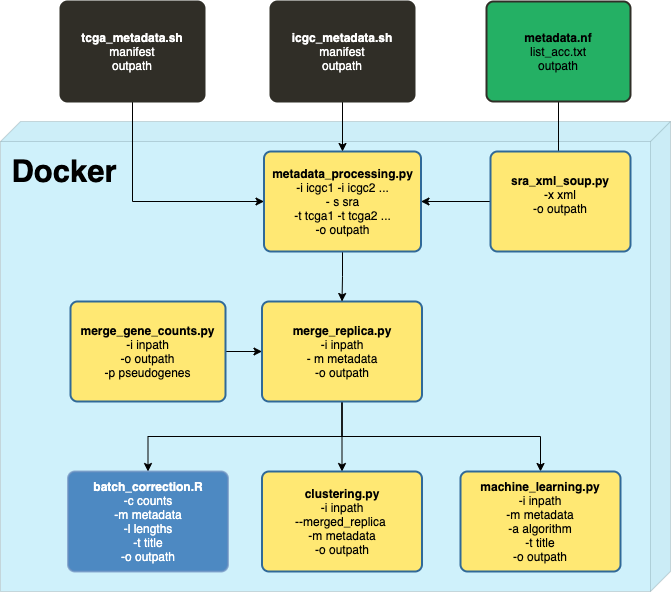
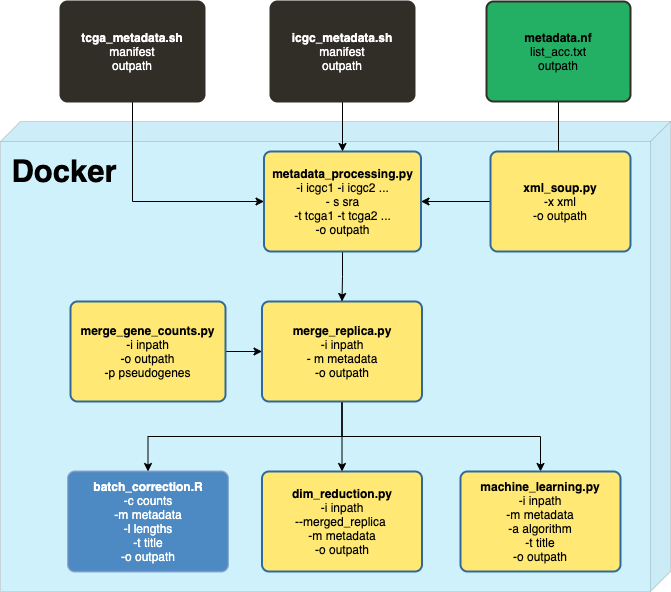
refactoring and adaption of workflow image

Changed region(s): [[0.7452, 0.3041, 0.924, 0.3953], [0.4173, 0.8209, 0.5961, 0.8514]]

diff --git a/python_scripts/dim_reduction.py b/python_scripts/dim_reduction.py
@@ -110,7 +110,8 @@ def main(inpath, merged_replica, metadata, outpath, pca, tsne, umap, comparison,
         visualization_plots(scaled_data, annotations, outpath, 'umap', title)
 
     if comparison:
-        comparison_dim_reduction(scaled_data, pcolor_list, outpath)
+        comparison_dim_reduction(scaled_data, pcolor_list, outpath + "project_")
+        comparison_dim_reduction(scaled_data, ccolor_list, outpath + "condition_")
 
     if silhouette:
         silhouette_plot(scaled_data, target)
@@ -159,7 +160,7 @@ def read_metadata(metadata, sample_ids):
     tmp = {0 + i: [k, sorted_meta.get(k)] for i, k in enumerate(sorted_meta)}
 
     annos = pd.DataFrame.from_dict(tmp, orient='index')
-    print("annos\n", annos)
+    # print("annos\n", annos)
     # expand list with metadata into own series
     tags = annos.iloc[:, 1].apply(pd.Series)
     tags.rename({0: 'CaseID', 1: 'Condition', 2: 'Project'}, axis=1, inplace=True)
@@ -183,15 +184,15 @@ def read_metadata(metadata, sample_ids):
     c = ['b', 'g', 'r', 'p']
     color_tups = list(zip(project_set, c))
     # color_dict = {e[0]: e[1] for e in color_tups}
-    # pdict = {'GTEx-PRJNA75899': '#EF553B', 'TCGA-PAAD': '#AB63FA', 'PACA-AU': '#00CC96', 'PACA-CA': '#636EFA'}
+    pdict = {'GTEx-PRJNA75899': '#EF553B', 'TCGA-PAAD': '#AB63FA', 'PACA-AU': '#00CC96', 'PACA-CA': '#636EFA'}
     # pdict = {'PRJNA75899': '#00CC96', 'TCGA-LIHC': '#EF553B', 'LIRI-JP': '#636EFA', 'TCGA-CHOL': '#AB63FA'}
-    pdict = {'SRP030040': '#85660D', 'SRP058626': '#782AB6', 'SRP187978': '#565656', 'SRP050003': '#1C8356',
-             'SRP029880': '#16FF32', 'SRP137150': '#F7E1A0', 'SRP102722': '#E2E2E2', 'SRP026600': '#1CBE4F',
-             'SRP064138': '#C4451C', 'SRP068551': '#DEA0FD', 'SRP062885': '#FE00FA', 'SRP069212': '#325A9B',
-             'SRP048907': '#FEAF16', 'SRP050551': '#F8A19F', 'SRP076032': '#90AD1C', 'SRP068976': '#F6222E',
-             'SRP070723': '#1CFFCE', 'SRP108560': '#2ED9FF', 'SRP056696': '#B10DA1', 'SRP040998': '#C075A6',
-             'SRP118972': '#FC1CBF', 'SRP039694': '#B00068', 'SRP174502': '#FBE426', 'SRP049592': '#FA0087',
-             'PRJNA75899': '#00CC96', 'TCGA-LIHC': '#EF553B', 'LIRI-JP': '#636EFA', 'TCGA-CHOL': '#AB63FA'}
+    # pdict = {'SRP030040': '#85660D', 'SRP058626': '#782AB6', 'SRP187978': '#565656', 'SRP050003': '#1C8356',
+    #         'SRP029880': '#16FF32', 'SRP137150': '#F7E1A0', 'SRP102722': '#E2E2E2', 'SRP026600': '#1CBE4F',
+    #         'SRP064138': '#C4451C', 'SRP068551': '#DEA0FD', 'SRP062885': '#FE00FA', 'SRP069212': '#325A9B',
+    #         'SRP048907': '#FEAF16', 'SRP050551': '#F8A19F', 'SRP076032': '#90AD1C', 'SRP068976': '#F6222E',
+    #         'SRP070723': '#1CFFCE', 'SRP108560': '#2ED9FF', 'SRP056696': '#B10DA1', 'SRP040998': '#C075A6',
+    #         'SRP118972': '#FC1CBF', 'SRP039694': '#B00068', 'SRP174502': '#FBE426', 'SRP049592': '#FA0087',
+    #         'PRJNA75899': '#00CC96', 'TCGA-LIHC': '#EF553B', 'LIRI-JP': '#636EFA', 'TCGA-CHOL': '#AB63FA'}
 
     # print('Color-dict\n', pdict) #color_dict
     # color_list = [pdict[k] for k in project_list] #color_dict
@@ -236,7 +237,7 @@ def visualization_plots(data, target, outpath, method=str, title_dataset=str):
               '#DEA0FD', '#FE00FA', '#325A9B', '#FEAF16', '#F8A19F', '#90AD1C', '#F6222E', '#1CFFCE', '#2ED9FF',
               '#B10DA1', '#C075A6', '#FC1CBF', '#B00068', '#FBE426', '#FA0087', '#EF553B', '#636EFA', '#00CC96',
               '#AB63FA']
-    colors2 = ['#EF553B', '#636EFA', '#00CC96', '#AB63FA']
+    colors2 = ['#EF553B', '#636EFA', '#00CC96', '#AB63FA']  # red, blue, green purple
 
     if method == 'pca':
         print("Performing pca for plotting...")
@@ -251,7 +252,7 @@ def visualization_plots(data, target, outpath, method=str, title_dataset=str):
         print("Performing tsne for plotting...")
         # Dimension reduction
         # consider setting init='pca', perplexity (neighbors), learning_rate
-        tsne = TSNE(n_components=2, random_state=0)
+        tsne = TSNE(n_components=2, random_state=0) # perplexity=20
         X_embedded = tsne.fit_transform(data)
         d1 = X_embedded[:, 0]
         d2 = X_embedded[:, 1]
@@ -260,7 +261,7 @@ def visualization_plots(data, target, outpath, method=str, title_dataset=str):
         print("Performing umap for plotting...")
         # Dimension reduction
         # ensure reproducibility of embedding by setting random state, n_neighbors, metric='mahalanobis'
-        reducer = umap.UMAP(random_state=42)
+        reducer = umap.UMAP(random_state=42) # n_neighbors=30, min_dist=0
         embedding = reducer.fit_transform(data)
         d1 = embedding[:, 0]
         d2 = embedding[:, 1]
@@ -272,7 +273,7 @@ def visualization_plots(data, target, outpath, method=str, title_dataset=str):
 
     figP = px.scatter(x=d1, y=d2, color=target.Project, hover_name=target.ID,
                       hover_data={'condition': target.Condition, 'case_id': target.CaseID},
-                      template="simple_white")
+                      template="simple_white", color_discrete_sequence=colors2)
 
     if method == 'pca':
         figC.update_layout(title=str(method).upper() + ' - ' + title_dataset + ' dataset',
@@ -283,7 +284,7 @@ def visualization_plots(data, target, outpath, method=str, title_dataset=str):
         figP.update_layout(title=str(method).upper() + ' - ' + title_dataset + ' dataset',
                            xaxis_title="PC1 - explained variance: " + str(round(evr1 * 100, 2)),
                            yaxis_title="PC2 - explained variance: " + str(round(evr2 * 100, 2)),
-                           legend_title="Project", colorway=colors)
+                           legend_title="Project", colorway=colors2)
     else:
         figC.update_layout(title=str(method).upper() + ' - ' + title_dataset + ' dataset',
                            xaxis_title="Dim1", yaxis_title="Dim2",
@@ -291,8 +292,12 @@ def visualization_plots(data, target, outpath, method=str, title_dataset=str):
 
         figP.update_layout(title=str(method).upper() + ' - ' + title_dataset + ' dataset',
                            xaxis_title="Dim1", yaxis_title="Dim2", legend_title="Project",
-                           colorway=colors)
+                           colorway=colors2)
 
+    # control location of legend with  yanchor="top", y=0.99, xanchor="left", x=0.01,
+    # orientation="h", yanchor="bottom", y=1.02, xanchor="right", x=1,
+    figC.update_layout(legend=dict(orientation="h", yanchor="bottom", y=1.02, xanchor="right", x=1, font=dict(size=20)))
+    figP.update_layout(legend=dict(orientation="h", yanchor="bottom", y=1.02, xanchor="right", x=1, font=dict(size=20)))
     figC.update_traces(marker={'size': 20})  # (marker=go.scatter.Marker(size=20))
     figC.show()
     figP.update_traces(marker={'size': 20})  # (marker=go.scatter.Marker(size=20))
@@ -304,10 +309,14 @@ def visualization_plots(data, target, outpath, method=str, title_dataset=str):
     figP.write_html(outpath + str(method) + '_' + title_dataset.lower() + "_project.html")
 
     # reduce marker sizes for pdf pictures
-    figC.update_traces(marker={'size': 5})  # (marker=go.scatter.Marker(size=5))
-    figP.update_traces(marker={'size': 5})  # (marker=go.scatter.Marker(size=5))
-    figC.write_image(outpath + str(method) + '_' + title_dataset.lower() + "_condition.pdf")
-    figP.write_image(outpath + str(method) + '_' + title_dataset.lower() + "_project.pdf")
+    figC.update_traces(marker={'size': 10})  # (marker=go.scatter.Marker(size=5))
+    figP.update_traces(marker={'size': 10})  # (marker=go.scatter.Marker(size=5))
+    figC.update_xaxes(linewidth=3, title_font_size=20, tickfont_size=20)
+    figC.update_yaxes(linewidth=3, title_font_size=20, tickfont_size=20)
+    figP.update_xaxes(linewidth=3, title_font_size=20, tickfont_size=20)
+    figC.update_yaxes(linewidth=3, title_font_size=20, tickfont_size=20)
+    figC.write_image(outpath + str(method) + '_' + title_dataset.lower() + "_condition.pdf", scale=3)
+    figP.write_image(outpath + str(method) + '_' + title_dataset.lower() + "_project.pdf", scale=3)
 
 
 def comparison_dim_reduction(X, target, outpath):
@@ -319,7 +328,7 @@ def comparison_dim_reduction(X, target, outpath):
     """
     # Create figure
     fig = plt.figure(figsize=(15, 5))
-    fig.suptitle("Dimensionality reduction with ", fontsize=14)
+    # fig.suptitle("Dimensionality reduction with ", fontsize=14)
     n_components = 2
 
     # Set-up manifold methods
@@ -337,16 +346,28 @@ def comparison_dim_reduction(X, target, outpath):
         print("%s: %.2g sec" % (label, t1 - t0))
         ax = fig.add_subplot(1, 3, 1 + i)
         ax.scatter(Y[:, 0], Y[:, 1], c=target)  # , cmap=plt.cm.Spectral), cmap=plt.cm.Set2
-        ax.set_title("%s (%.2g sec)" % (label, t1 - t0))
+        # ax.set_title("%s (%.2g sec)" % (label, t1 - t0))
+        ax.set_title("%s" % label, fontsize=16, fontweight='bold')
+        ax.spines['top'].set_visible(False)
+        ax.spines['right'].set_visible(False)
+        if label == 'PCA':
+            evr1 = method.explained_variance_ratio_[0]
+            evr2 = method.explained_variance_ratio_[1]
+            ax.set_xlabel("PC1 - " + str(round(evr1 * 100, 2)) + "%", fontsize=20)
+            ax.set_ylabel("PC2 - " + str(round(evr2 * 100, 2)) + "%", fontsize=20)
+        else:
+            ax.set_xlabel('Dim1', fontsize=20)
+            ax.set_ylabel('Dim2', fontsize=20)
+        ax.tick_params(axis='both', which='major', labelsize=20)
         ax.xaxis.set_major_formatter(NullFormatter())
         ax.yaxis.set_major_formatter(NullFormatter())
         ax.axis('tight')
 
-    # plt.legend()
+
     # plt.show()
     if not os.path.exists(outpath):
         os.mkdir(outpath)
-    plt.savefig(outpath + "comparison_plot.png", format='png')
+    plt.savefig(outpath + "comparison_plot.pdf", format='pdf')
 
 
 def plotly_comparison(data, pcolor_list, ccolor_list, annos, outpath, title_dataset):
@@ -357,12 +378,12 @@ def plotly_comparison(data, pcolor_list, ccolor_list, annos, outpath, title_data
     evr1 = pca.explained_variance_ratio_[0]
     evr2 = pca.explained_variance_ratio_[1]
 
-    tsne = TSNE(n_components=2, random_state=0)  # ,  perplexity=20
+    tsne = TSNE(n_components=2, random_state=0, perplexity=20)  # ,  perplexity=20
     X_embedded = tsne.fit_transform(data)
     t1 = X_embedded[:, 0]
     t2 = X_embedded[:, 1]
 
-    reducer = umap.UMAP(random_state=42)  # , n_neighbors=30, min_dist=0.0
+    reducer = umap.UMAP(random_state=42, n_neighbors=30, min_dist=0.0)  # , n_neighbors=30, min_dist=0.0
     embedding = reducer.fit_transform(data)
     u1 = embedding[:, 0]
     u2 = embedding[:, 1]
